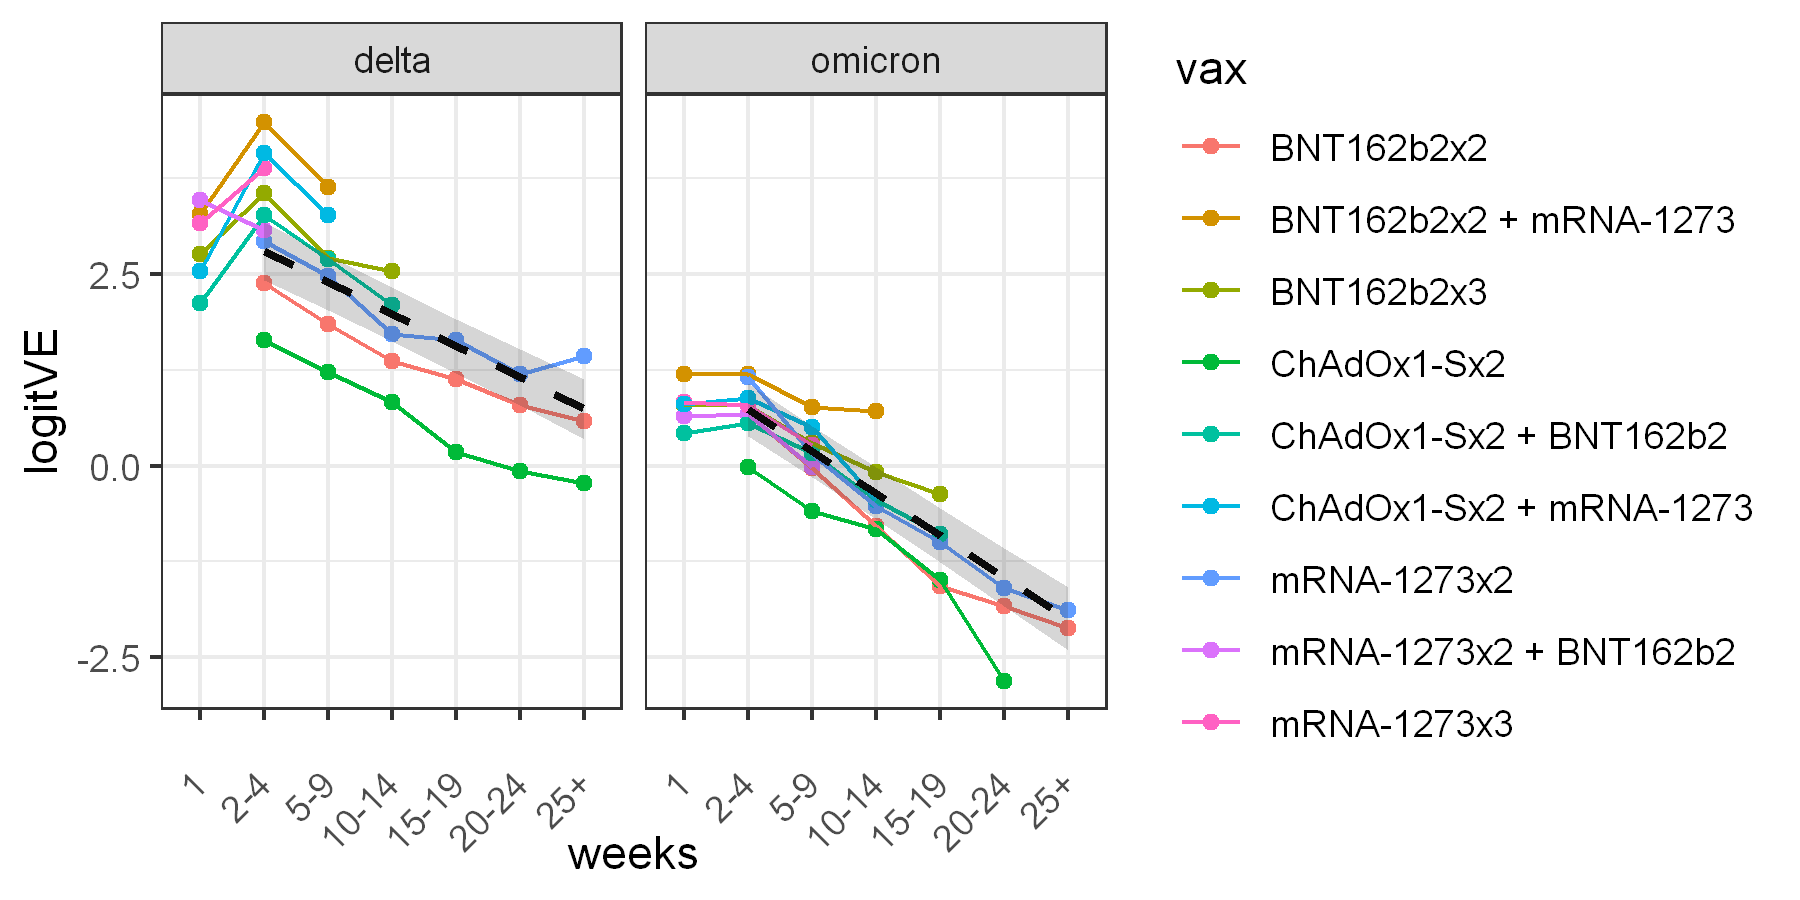
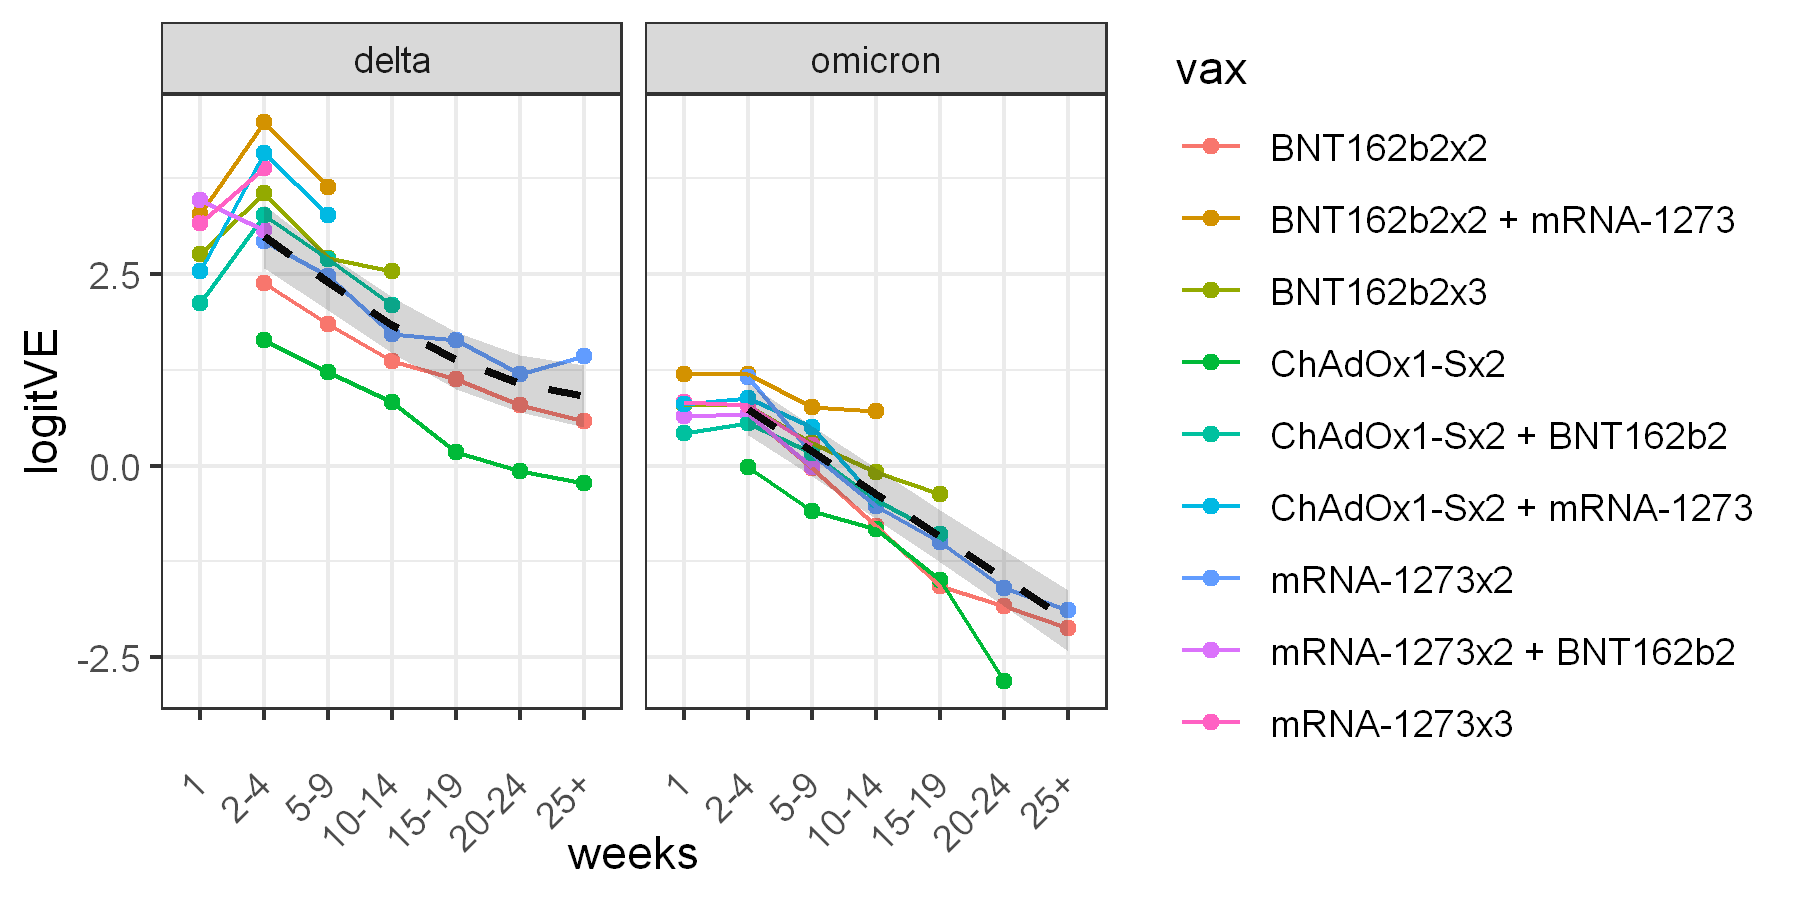
Added in attempt to model censored two-dose data for Pajon et al. On it's own, it weakens the argument and now the document is more confident than I am. I will revise soon to scale back what we have here, to suggest what might be seen. Good idea not killed, but less confident, with more data.

Changed region(s): [[0.1244, 0.2178, 0.3422, 0.4978]]

diff --git a/readme.md b/readme.md
@@ -44,12 +44,14 @@ one can derive a difference-in-difference prediction of the expected ratio of wa
 
 When this ratio of log-titers, which depends only on differences within variant and not across variants, is greater than 1, it indicates that omicron is waning at a faster rate than delta over the time interval. 
 
-This prediction for the ratio of the log differences antibody titer due to waning is compared to data from two relevant papers. [Zhao et al 2022](https://t.co/mswdI6Lqxk)) look how titers from Zifivax (a subunit vaccine in trials in China) after a booster schedule (second dose 1 month after first, third dose 4 months after second) taken 1 month after booster and 4-6 months after booster compare for delta and omicron.  Median delta titers go from 2133 at 1 month to 331 at 4-6 months, and omicron from 516 to 51.  The ratio of waning log differences is thus (log(516)-log(51))/(log(2133)-log(331)) = 1.24. This ratio tells us that, in the point estimate, omicron titers are waning at a faster rate than delta titers over that time interval. Similarly, from [Pajon et al 2022](https://t.co/lBxMqBjWpL), we can calculate an upper bound for this ratio for the Moderna vaccine by comparing titers for D614G and omicron 1 and 6 months post-boost. Median D614G titers after booster go from 2423 at 1 month to 1067 at 6 months, and omicron from 850 to 136.  The ratio of waning log differences is thus 2.23. (Due to censoring at low titers, we cannot do this for the 2-dose data.) In Figure 4, we show that the Zhao estimate overlaps the predictions from VE in the time period studied, and the Pajon estimate is higher. Together, these shows that direct measurements of Omicron-delta antibody waning are consistent with estimates derived from vaccine efficacy, and that the further the variant studied is from WA1, the larger the waning difference over time. 
+This prediction for the ratio of the log differences antibody titer due to waning is compared to data from two relevant papers. [Zhao et al 2022](https://t.co/mswdI6Lqxk)) look how titers from Zifivax (a subunit vaccine in trials in China) after a booster schedule (second dose 1 month after first, third dose 4 months after second) taken 1 month after booster and 4-6 months after booster compare for delta and omicron.  Median delta titers go from 2133 at 1 month to 331 at 4-6 months, and omicron from 516 to 51.  The ratio of waning log differences is thus (log(516)-log(51))/(log(2133)-log(331)) = 1.24. This ratio tells us that, in the point estimate, omicron titers are waning at a faster rate than delta titers over that time interval. Similarly, from [Pajon et al 2022](https://t.co/lBxMqBjWpL), we can calculate an upper bound for this ratio for the Moderna vaccine by comparing titers for D614G and omicron 1 and 6 months post-boost. Median D614G titers after booster go from 2423 at 1 month to 1067 at 6 months, and omicron from 850 to 136.  The ratio of waning log differences is thus 2.23. (Due to censoring at low titers, we cannot do this for the 2-dose data.*) In Figure 4, we show that the Zhao estimate overlaps the predictions from VE in the time period studied, and the Pajon estimate is higher. Together, these shows that direct measurements of Omicron-delta antibody waning are consistent with estimates derived from vaccine efficacy, and that the further the variant studied is from WA1, the larger the waning difference over time. 
+
+* If we try to work with the censored data using appropriate methods, we find for two doses that omicron titers wane more slowly over seven months than D614G titers following two-dose vaccination. If the inference is valid (which is not guaranteed), this pattern is consistent with affinity maturation improving omicron response relative to very closely-matched strains. This is probably true, but then D614G and delta may be different enough that Pajon isn't a useful bound. But if that's the case, then there is only one paper to date that's useful to compare to, and it's for a vaccine that's not in wide use....   This weakens the overall argument. 
 
 ![ratio_of_waning_ratios_model_nonlinear.png](ratio_of_waning_ratios_model_nonlinear.png)
 **Figure 4.** Ratio of waning ratios for omicron relative to delta. Line and ribbon are predicted from the difference in waning trends from UKHSA efficacy estimates. Red line shows the ratio of medians for Zifivax evaluated from 1 to 4-6 months post-booster. Blue shows the upper bound for the Moderna vaccine comparing omicron to D614G.  
 
-**Concordance between these two very different types of evidence indicates that the VE waning is primarily biological and not due to unmeasured confounding, and that differences in NAb waning that may not seem significant in any one study are epidemiologically meaningful.**
+**Based on the direct delta-omicron comparisons, concordance between these two very different types of evidence indicates that the VE waning is primarily biological and not due to unmeasured confounding, and that differences in NAb waning that may not seem significant in any one study are epidemiologically meaningful.** However, I caution that the appropriate titer evidence is currently very sparse.
 
 ## Conclusion
 
